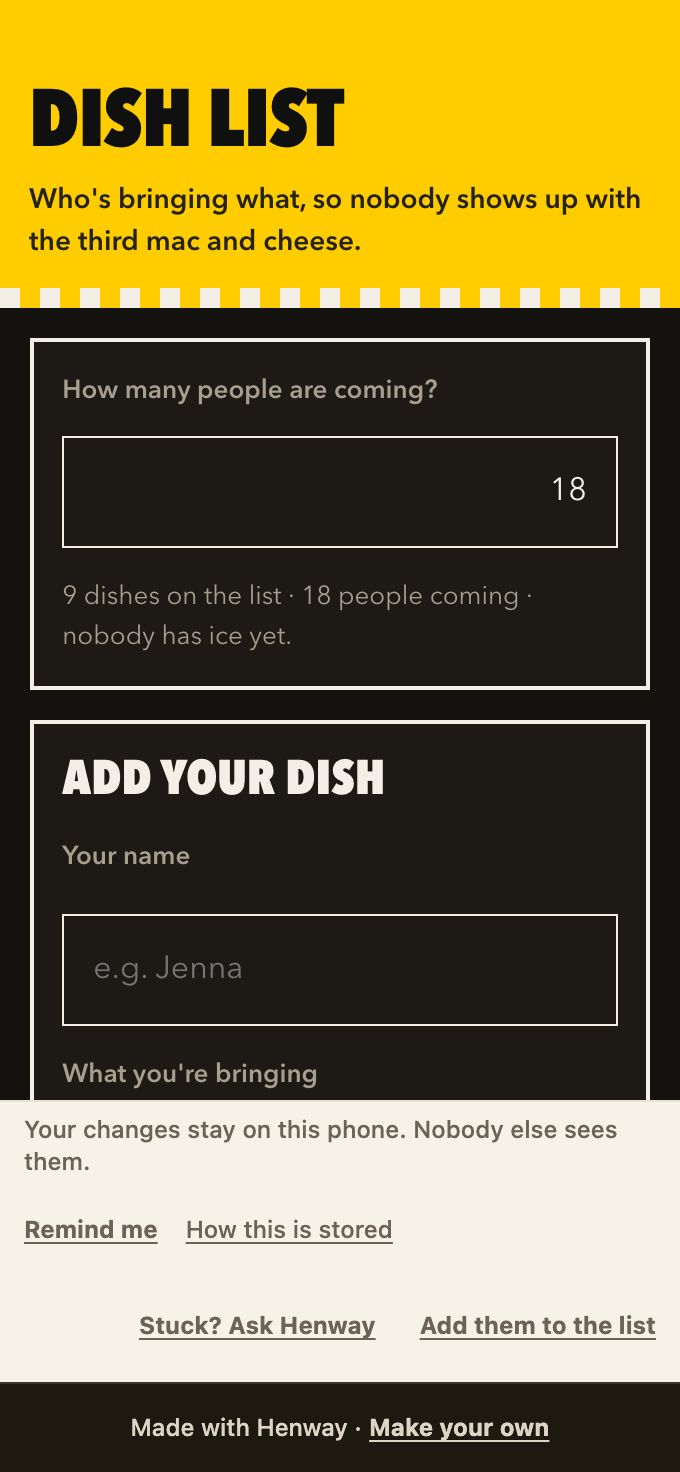
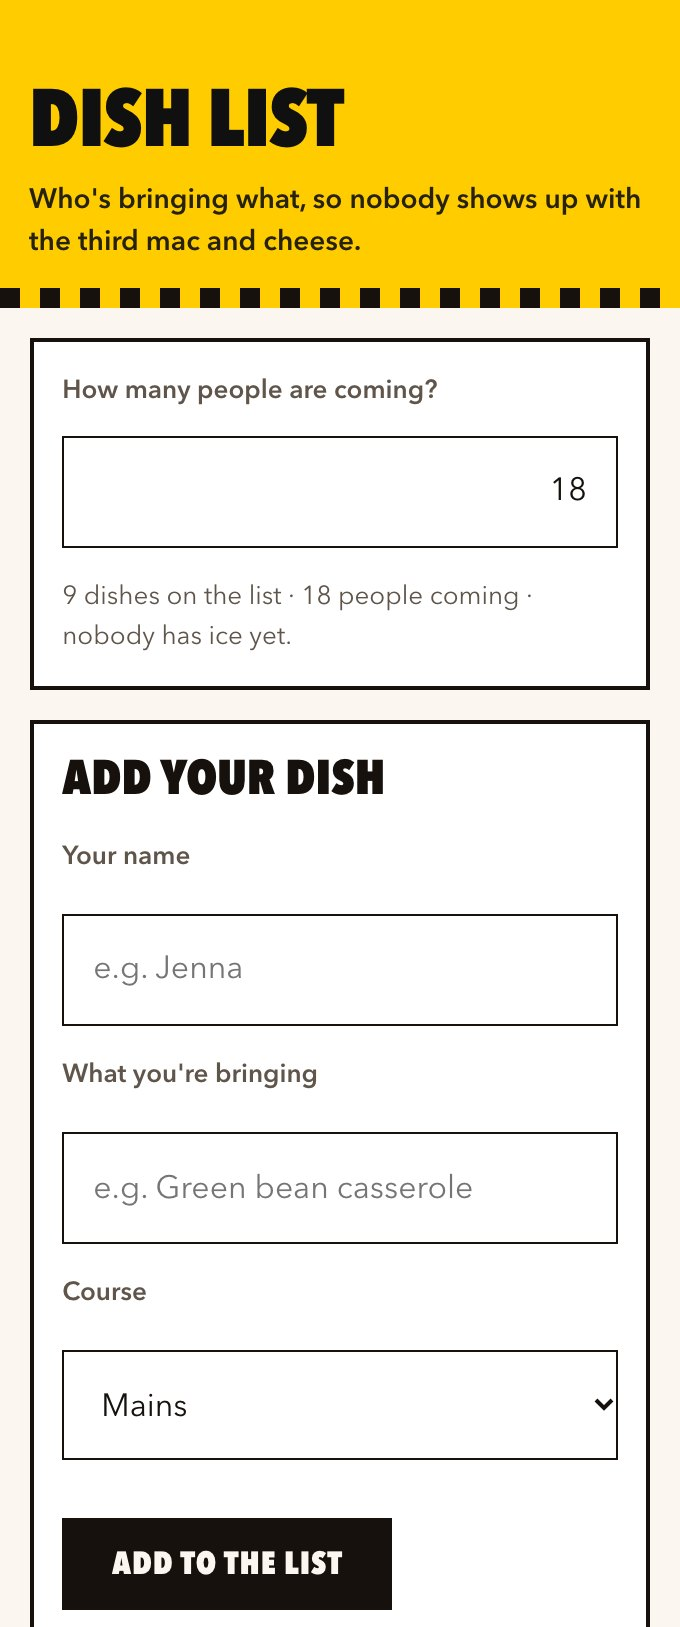
Recut phone captures above the Henway bar; copy for builds, change limits, retention
- All six starters recaptured live (340 CSS px, 2x) and cut at a clean row
  above the cream Henway bar, so no capture shows the bar or covers content.
  Dish List and Trip Plan no longer show "Nobody else sees them".
  live-*.jpg come from the same captures; image sizes now come from the files.
- How it works: "While it builds, it shows what it's making..."; eyebrow
  "While it builds" (one-tap build since 9/27).
- Change limits: Free card "10 changes by just asking"; $9 card "30 changes a
  month by just asking"; FAQ and method line state 10 and 30 a month; story
  pages "Free to try, with 10 changes by asking. $9 to keep it, once, with 30
  changes a month."
- $9 card retention: "It isn't cleared after 6 months, saved data and all".
- Retention sentence word for word with the app (ee838da).
- Rubric: henwaybar (bar in any capture), stale copy (before it builds,
  unlimited changes, nothing new saved), exact retention sentence. Each shown
  failing first.

diff --git a/site/index.html b/site/index.html
@@ -52,7 +52,7 @@ html.g-payments [data-ungate~=payments],html.g-copies [data-ungate~=copies],html
   <div class="bubble"><span class="who">You said</span>Every year three people bring mac and cheese and nobody brings ice.<span class="arrow" aria-hidden="true">&rarr;</span></div>
   <div class="pw">
    <img width="250" height="360" class="chick" src="/v6/img/chick-hatch.png" alt="">
-   <div class="phone"><img src="/v6/img/phone-potluck.jpg" width="680" height="1472" alt="Dish List, the starter app, open on a phone"></div>
+   <div class="phone"><img src="/v6/img/phone-potluck.jpg" width="680" height="1627" alt="Dish List, the starter app, open on a phone"></div>
    <div class="sent">Sent to the family chat &middot; <span>18 coming</span></div>
   </div>
  </div>
@@ -100,27 +100,27 @@ html.g-payments [data-ungate~=payments],html.g-copies [data-ungate~=copies],html
   <p class="lede" style="max-width:36ch">Each one started as somebody's complaint. Get it as is, or make it yours.</p>
  </div>
  <div class="shelf"><article class="st"><span class="tag">Fitness</span><p class="q">My clients lose the workouts I text them.</p>
- <div class="shot"><div class="phone"><picture><source media="(max-width:640px)" srcset="/v6/img/live-workout.jpg" width="680" height="840"><img src="/v6/img/phone-workout.jpg" width="680" height="1472" loading="lazy" alt="Workout Log, the starter app, open on a phone"></picture></div></div>
+ <div class="shot"><div class="phone"><picture><source media="(max-width:640px)" srcset="/v6/img/live-workout.jpg" width="680" height="856"><img src="/v6/img/phone-workout.jpg" width="680" height="1389" loading="lazy" alt="Workout Log, the starter app, open on a phone"></picture></div></div>
  <p class="gone">Snap the plan. It's logged.</p>
  <div class="acts"><a class="btn go sm" href="https://app.henwayai.com/try?from=qaVPwtlEpxfqaC48QkXvpPJk&utm_source=site&utm_medium=starter" data-cta="starter-workout">Get this app</a><a class="more2" href="/apps/workout">See how it works</a></div></article>
 <article class="st"><span class="tag">With family</span><p class="q">Three people said mac and cheese.</p>
- <div class="shot"><div class="phone"><picture><source media="(max-width:640px)" srcset="/v6/img/live-potluck.jpg" width="680" height="840"><img src="/v6/img/phone-potluck.jpg" width="680" height="1472" loading="lazy" alt="Dish List, the starter app, open on a phone"></picture></div></div>
+ <div class="shot"><div class="phone"><picture><source media="(max-width:640px)" srcset="/v6/img/live-potluck.jpg" width="680" height="720"><img src="/v6/img/phone-potluck.jpg" width="680" height="1627" loading="lazy" alt="Dish List, the starter app, open on a phone"></picture></div></div>
  <p class="gone">Everyone sees one list. It spots what's missing.</p>
  <div class="acts"><a class="btn go sm" href="https://app.henwayai.com/try?from=7FHkMiAU4ocdNeOF6rog6Wjb&utm_source=site&utm_medium=starter" data-cta="starter-potluck">Get this app</a><a class="more2" href="/apps/potluck">See how it works</a></div></article>
 <article class="st"><span class="tag">Side hustle</span><p class="q">I do the work, then lose track of who owes me.</p>
- <div class="shot"><div class="phone"><picture><source media="(max-width:640px)" srcset="/v6/img/live-deals.jpg" width="680" height="840"><img src="/v6/img/phone-deals.jpg" width="680" height="1472" loading="lazy" alt="Brand Deal Tracker, the starter app, open on a phone"></picture></div></div>
+ <div class="shot"><div class="phone"><picture><source media="(max-width:640px)" srcset="/v6/img/live-deals.jpg" width="680" height="758"><img src="/v6/img/phone-deals.jpg" width="680" height="1636" loading="lazy" alt="Brand Deal Tracker, the starter app, open on a phone"></picture></div></div>
  <p class="gone">Snap the contract. It tells you who's late.</p>
  <div class="acts"><a class="btn go sm" href="https://app.henwayai.com/try?from=Ln0XlH8zbT5Nmq8pg-W8r5_K&utm_source=site&utm_medium=starter" data-cta="starter-deals">Get this app</a><a class="more2" href="/apps/deals">See how it works</a></div></article>
 <article class="st"><span class="tag">At home</span><p class="q">I save recipes and still don't know what's for dinner.</p>
- <div class="shot"><div class="phone"><picture><source media="(max-width:640px)" srcset="/v6/img/live-recipes.jpg" width="680" height="840"><img src="/v6/img/phone-recipes.jpg" width="680" height="1472" loading="lazy" alt="Recipe Box, the starter app, open on a phone"></picture></div></div>
+ <div class="shot"><div class="phone"><picture><source media="(max-width:640px)" srcset="/v6/img/live-recipes.jpg" width="680" height="704"><img src="/v6/img/phone-recipes.jpg" width="680" height="1465" loading="lazy" alt="Recipe Box, the starter app, open on a phone"></picture></div></div>
  <p class="gone">Snap Grandma's card. It's saved.</p>
  <div class="acts"><a class="btn go sm" href="https://app.henwayai.com/try?from=b2ILS-fPhAe4GKifPwkVnHrK&utm_source=site&utm_medium=starter" data-cta="starter-recipes">Get this app</a><a class="more2" href="/apps/recipes">See how it works</a></div></article>
 <article class="st"><span class="tag">Trips</span><p class="q">Who's bringing the cooler?</p>
- <div class="shot"><div class="phone"><picture><source media="(max-width:640px)" srcset="/v6/img/live-trip.jpg" width="680" height="840"><img src="/v6/img/phone-trip.jpg" width="680" height="1472" loading="lazy" alt="Trip Plan, the starter app, open on a phone"></picture></div></div>
+ <div class="shot"><div class="phone"><picture><source media="(max-width:640px)" srcset="/v6/img/live-trip.jpg" width="680" height="748"><img src="/v6/img/phone-trip.jpg" width="680" height="1627" loading="lazy" alt="Trip Plan, the starter app, open on a phone"></picture></div></div>
  <p class="gone">Everyone claims a job. Nothing gets forgotten.</p>
  <div class="acts"><a class="btn go sm" href="https://app.henwayai.com/try?from=UPcd_kRT3qSMcxM95Jrl6mlE&utm_source=site&utm_medium=starter" data-cta="starter-trip">Get this app</a><a class="more2" href="/apps/trip">See how it works</a></div></article>
 <article class="st"><span class="tag">At work</span><p class="q">My license renewal sneaks up on me.</p>
- <div class="shot"><div class="phone"><picture><source media="(max-width:640px)" srcset="/v6/img/live-renewals.jpg" width="680" height="840"><img src="/v6/img/phone-renewals.jpg" width="680" height="1472" loading="lazy" alt="License Renewals, the starter app, open on a phone"></picture></div></div>
+ <div class="shot"><div class="phone"><picture><source media="(max-width:640px)" srcset="/v6/img/live-renewals.jpg" width="680" height="738"><img src="/v6/img/phone-renewals.jpg" width="680" height="1559" loading="lazy" alt="License Renewals, the starter app, open on a phone"></picture></div></div>
  <p class="gone">Every renewal on your calendar, 30 days early.</p>
  <div class="acts"><a class="btn go sm" href="https://app.henwayai.com/try?from=vwdwJyF0QWndhXQgVlbWgJvX&utm_source=site&utm_medium=starter" data-cta="starter-renewals">Get this app</a><a class="more2" href="/apps/renewals">See how it works</a></div></article></div>
  <p class="more">Something else bugging you? <a href="https://app.henwayai.com/try?utm_source=site&amp;utm_medium=home&amp;utm_campaign=find-own" data-cta="start">Say it your way &rarr;</a></p>

diff --git a/site/apps.html b/site/apps.html
@@ -51,27 +51,27 @@ html.g-payments [data-ungate~=payments],html.g-copies [data-ungate~=copies],html
   <button aria-pressed="false" data-f="kitchen">My kitchen</button><button aria-pressed="false" data-f="work">My work</button></div>
 </div></section>
 <div class="wrap"><div class="grid"><article class="card st-card" data-f="clients"><span class="tg">Coaches</span><h3>"My clients lose the workouts I text them."</h3>
-<div class="shot"><img loading="lazy" width="680" height="840" src="/v6/img/live-workout.jpg" alt="Workout Log, the starter app, open on a phone"></div>
+<div class="shot"><img loading="lazy" width="680" height="856" src="/v6/img/live-workout.jpg" alt="Workout Log, the starter app, open on a phone"></div>
 <div class="nm"><b>Workout Log</b><small>By Henway</small></div><p>Clients snap your plan and their sets are logged.</p><div class="chips"><i>Reads screenshots</i><i>Each client's own log</i><i>Reminders</i></div>
 <div class="row"><a class="btn go sm" href="https://app.henwayai.com/try?from=qaVPwtlEpxfqaC48QkXvpPJk&utm_source=site&utm_medium=starter">Make it mine</a><a class="open" href="https://api.henwayai.com/s/qaVPwtlEpxfqaC48QkXvpPJk">Open it</a><a class="open" href="/apps/workout">See how it works</a></div>
 <p class="pz">Free to start · $9 to keep</p></article><article class="card st-card" data-f="group"><span class="tg">Hosts</span><h3>"Three people said mac and cheese."</h3>
-<div class="shot"><img loading="lazy" width="680" height="840" src="/v6/img/live-potluck.jpg" alt="Dish List, the starter app, open on a phone"></div>
+<div class="shot"><img loading="lazy" width="680" height="720" src="/v6/img/live-potluck.jpg" alt="Dish List, the starter app, open on a phone"></div>
 <div class="nm"><b>Dish List</b><small>By Henway</small></div><p>Everyone adds a dish. You see what's still missing.</p><div class="chips"><i>One shared link</i><i>What's missing?</i></div>
 <div class="row"><a class="btn go sm" href="https://app.henwayai.com/try?from=7FHkMiAU4ocdNeOF6rog6Wjb&utm_source=site&utm_medium=starter">Make it mine</a><a class="open" href="https://api.henwayai.com/s/7FHkMiAU4ocdNeOF6rog6Wjb">Open it</a><a class="open" href="/apps/potluck">See how it works</a></div>
 <p class="pz">Free to start · $9 to keep</p></article><article class="card st-card" data-f="money"><span class="tg">Creators</span><h3>"Three brands owe me money."</h3>
-<div class="shot"><img loading="lazy" width="680" height="840" src="/v6/img/live-deals.jpg" alt="Brand Deal Tracker, the starter app, open on a phone"></div>
+<div class="shot"><img loading="lazy" width="680" height="758" src="/v6/img/live-deals.jpg" alt="Brand Deal Tracker, the starter app, open on a phone"></div>
 <div class="nm"><b>Brand Deal Tracker</b><small>By Henway</small></div><p>Snap the contract. See who owes you and what's late.</p><div class="chips"><i>Reads contracts</i><i>Overdue at the top</i></div>
 <div class="row"><a class="btn go sm" href="https://app.henwayai.com/try?from=Ln0XlH8zbT5Nmq8pg-W8r5_K&utm_source=site&utm_medium=starter">Make it mine</a><a class="open" href="https://api.henwayai.com/s/Ln0XlH8zbT5Nmq8pg-W8r5_K">Open it</a><a class="open" href="/apps/deals">See how it works</a></div>
 <p class="pz">Free to start · $9 to keep</p></article><article class="card st-card" data-f="group"><span class="tg">Trips</span><h3>"Who's bringing the cooler?"</h3>
-<div class="shot"><img loading="lazy" width="680" height="840" src="/v6/img/live-trip.jpg" alt="Trip Plan, the starter app, open on a phone"></div>
+<div class="shot"><img loading="lazy" width="680" height="748" src="/v6/img/live-trip.jpg" alt="Trip Plan, the starter app, open on a phone"></div>
 <div class="nm"><b>Trip Plan</b><small>By Henway</small></div><p>Days, plans and who's bringing what, at one link.</p><div class="chips"><i>One shared link</i><i>What are we forgetting?</i></div>
 <div class="row"><a class="btn go sm" href="https://app.henwayai.com/try?from=UPcd_kRT3qSMcxM95Jrl6mlE&utm_source=site&utm_medium=starter">Make it mine</a><a class="open" href="https://api.henwayai.com/s/UPcd_kRT3qSMcxM95Jrl6mlE">Open it</a><a class="open" href="/apps/trip">See how it works</a></div>
 <p class="pz">Free to start · $9 to keep</p></article><article class="card st-card" data-f="kitchen"><span class="tg">Cooks</span><h3>"I save recipes and still don't know what's for dinner."</h3>
-<div class="shot"><img loading="lazy" width="680" height="840" src="/v6/img/live-recipes.jpg" alt="Recipe Box, the starter app, open on a phone"></div>
+<div class="shot"><img loading="lazy" width="680" height="704" src="/v6/img/live-recipes.jpg" alt="Recipe Box, the starter app, open on a phone"></div>
 <div class="nm"><b>Recipe Box</b><small>By Henway</small></div><p>Snap a recipe card. Ask what you can make tonight.</p><div class="chips"><i>Reads photos</i><i>Pantry</i></div>
 <div class="row"><a class="btn go sm" href="https://app.henwayai.com/try?from=b2ILS-fPhAe4GKifPwkVnHrK&utm_source=site&utm_medium=starter">Make it mine</a><a class="open" href="https://api.henwayai.com/s/b2ILS-fPhAe4GKifPwkVnHrK">Open it</a><a class="open" href="/apps/recipes">See how it works</a></div>
 <p class="pz">Free to start · $9 to keep</p></article><article class="card st-card" data-f="work"><span class="tg">Nurses and pros</span><h3>"My license renewal snuck up on me."</h3>
-<div class="shot"><img loading="lazy" width="680" height="840" src="/v6/img/live-renewals.jpg" alt="License Renewals, the starter app, open on a phone"></div>
+<div class="shot"><img loading="lazy" width="680" height="738" src="/v6/img/live-renewals.jpg" alt="License Renewals, the starter app, open on a phone"></div>
 <div class="nm"><b>License Renewals</b><small>By Henway</small></div><p>Every license and CE hour, with due dates on your calendar.</p><div class="chips"><i>Calendar dates</i><i>What's missing?</i></div>
 <div class="row"><a class="btn go sm" href="https://app.henwayai.com/try?from=vwdwJyF0QWndhXQgVlbWgJvX&utm_source=site&utm_medium=starter">Make it mine</a><a class="open" href="https://api.henwayai.com/s/vwdwJyF0QWndhXQgVlbWgJvX">Open it</a><a class="open" href="/apps/renewals">See how it works</a></div>
 <p class="pz">Free to start · $9 to keep</p></article></div></div>

diff --git a/site/pricing.html b/site/pricing.html
@@ -52,11 +52,11 @@ html.g-payments [data-ungate~=payments],html.g-copies [data-ungate~=copies],html
 <div class="wrap"><div class="tiers">
  <div class="tier"><div class="tt"><b>Free</b></div>
   <div class="amt"><span>$0</span></div><p class="for">Your first app, start to finish.</p>
-  <ul><li><span>An app at its own link</span></li><li><span>Change it by saying so</span></li><li data-gate="keepv2"><span>Shared lists with up to 5 people</span></li><li><span><span data-live="ai-free">20</span> AI answers a day</span></li><li data-gate="payments"><span>Take payments in your app</span></li><li class="x"><span>6 months with nothing new saved clears its saved data. The app itself stays.</span></li></ul>
+  <ul><li><span>An app at its own link</span></li><li><span>10 changes by just asking</span></li><li data-gate="keepv2"><span>Shared lists with up to 5 people</span></li><li><span><span data-live="ai-free">20</span> AI answers a day</span></li><li data-gate="payments"><span>Take payments in your app</span></li><li class="x"><span>6 months with nobody opening it or saving anything clears its saved data. The app itself stays.</span></li></ul>
   <a class="btn" href="https://app.henwayai.com/try" data-cta="start">Start free</a></div>
  <div class="tier hot"><div class="tt"><b>Keep it</b><span class="badge">Pay once</span></div>
   <div class="amt"><span data-live="keep">$9</span><small>once, per app</small></div><p class="for">For the app you'll use for years.</p>
-  <ul><li data-gate="keepv2"><span>Your own app name and icon</span></li><li data-gate="keepv2"><span>Shared lists with no cap on people</span></li><li data-ungate="keepv2"><span>Share it with your people</span></li><li><span><span data-live="ai-paid">200</span> AI answers a day, not <span data-live="ai-free">20</span></span></li><li><span>Kept as it is, even if it sits unused</span></li><li><span>Help from Henway with that app</span></li><li><span>No subscription</span></li></ul>
+  <ul><li data-gate="keepv2"><span>Your own app name and icon</span></li><li data-gate="keepv2"><span>Shared lists with no cap on people</span></li><li data-ungate="keepv2"><span>Share it with your people</span></li><li><span><span data-live="ai-paid">200</span> AI answers a day, not <span data-live="ai-free">20</span></span></li><li><span>30 changes a month by just asking</span></li><li><span>It isn't cleared after 6 months, saved data and all</span></li><li><span>No subscription</span></li></ul>
   <a class="btn go" href="https://app.henwayai.com/try" data-cta="start">Keep an app</a></div>
  <div class="tier"><div class="tt"><b>Build it with Michael</b></div>
   <div class="amt"><span data-live="studio">$150</span><small>60 minutes</small></div><p class="for">Bring the idea. Leave with the app.</p>
@@ -91,8 +91,8 @@ html.g-payments [data-ungate~=payments],html.g-copies [data-ungate~=copies],html
 <section style="padding-top:0"><div class="wrap">
  <span class="kick">Questions</span>
  <div class="faq">
-  <details><summary>Can I change my free app?</summary><p>Yes. Say what you want different and the app updates. Free apps change too.</p></details>
-  <details><summary>What happens after 6 months?</summary><p>If an app goes 6 months with nothing new saved, its saved data is cleared. The app itself stays. Apps you keep for $9, and apps on a paid plan, are kept as they are.</p></details><details id="refunds"><summary>Can I get a refund?</summary><ul class="refunds"><li><b>Keep an app, $9:</b> if your app doesn't do what you asked and we can't fix it, email <a href="mailto:support@henwayai.com?subject=Refund">support@henwayai.com</a> and we refund the $9. A refunded app goes back to the free limits.</li><li><b>Build it with Michael, $150:</b> full refund if you cancel at least 24 hours before. Inside 24 hours, you can move it once.</li><li data-gate="payments"><b>Payments and copies sold through your app:</b> you set your own refund policy. When you refund one, Henway's fee on it goes back too.</li></ul></details>
+  <details><summary>Can I change my free app?</summary><p>Yes. Say what you want different and the app updates. A free app gets 10 changes in all. Keep it for $9 and it gets 30 changes a month.</p></details>
+  <details><summary>What happens after 6 months?</summary><p>If an app goes 6 months with nobody opening it or saving anything, its saved data is cleared. The app itself stays. Apps you keep for $9, and apps on a paid plan, are kept as they are.</p></details><details id="refunds"><summary>Can I get a refund?</summary><ul class="refunds"><li><b>Keep an app, $9:</b> if your app doesn't do what you asked and we can't fix it, email <a href="mailto:support@henwayai.com?subject=Refund">support@henwayai.com</a> and we refund the $9. A refunded app goes back to the free limits.</li><li><b>Build it with Michael, $150:</b> full refund if you cancel at least 24 hours before. Inside 24 hours, you can move it once.</li><li data-gate="payments"><b>Payments and copies sold through your app:</b> you set your own refund policy. When you refund one, Henway's fee on it goes back too.</li></ul></details>
   <details><summary>What's an AI answer?</summary><p>Some apps have a button that reads a photo or suggests something. Each tap is one answer. Free apps get <span data-live="ai-free">20</span> a day. Kept apps get <span data-live="ai-paid">200</span>.</p></details>
   <details><summary>Is $9 a subscription?</summary><p>No. You pay once for each app you keep.</p></details>
  </div>

diff --git a/site/support.html b/site/support.html
@@ -48,7 +48,7 @@ html.g-payments [data-ungate~=payments],html.g-copies [data-ungate~=copies],html
 </div></section>
 <section><div class="wrap" style="max-width:860px">
  <span class="kick">Common questions</span>
- <div class="faq"><details><summary>Where are my apps?</summary><p>Sign in at <a href="https://app.henwayai.com/login">app.henwayai.com/login</a> with the email you used. Your apps are under Apps. Built one without an account? It lives at its own link. If you gave us your email, that link is in the email we sent when it was ready.</p></details><details><summary>How do I log in?</summary><p>Use Google, or type your email and tap the button to get a sign-in link. No password needed. If the link doesn't arrive, check spam, then email us.</p></details><details><summary>How do I change my app?</summary><p>Open it and tap Change this app. Say what you want different. You see a preview first, and Undo puts it back.</p></details><details><summary>What does $9 get me?</summary><p>That app is kept as it is, even if it sits unused, with <span data-live="ai-paid">200</span> AI answers a day instead of <span data-live="ai-free">20</span>, and help from Henway with it. You pay once. There's no subscription.</p></details><details><summary>Why did an AI button stop working?</summary><p>Each app gets a set number of AI answers a day, shared by everyone who uses it. A photo counts as 2. It resets the next day, or keep the app for $9 to get more.</p></details><details><summary>What happens after 6 months?</summary><p>If an app goes 6 months with nothing new saved, its saved data is cleared. The app itself stays. Apps you keep for $9, and apps on a paid plan, are kept as they are.</p></details><details><summary>How do I delete my data?</summary><p>Delete an app from your Apps list and its data goes with it. To erase everything, use <a href="https://app.henwayai.com/privacy/delete">Delete my data</a> or email us.</p></details></div>
+ <div class="faq"><details><summary>Where are my apps?</summary><p>Sign in at <a href="https://app.henwayai.com/login">app.henwayai.com/login</a> with the email you used. Your apps are under Apps. Built one without an account? It lives at its own link. If you gave us your email, that link is in the email we sent when it was ready.</p></details><details><summary>How do I log in?</summary><p>Use Google, or type your email and tap the button to get a sign-in link. No password needed. If the link doesn't arrive, check spam, then email us.</p></details><details><summary>How do I change my app?</summary><p>Open it and tap Change this app. Say what you want different. You see a preview first, and Undo puts it back.</p></details><details><summary>What does $9 get me?</summary><p>That app is kept as it is, even if it sits unused, with <span data-live="ai-paid">200</span> AI answers a day instead of <span data-live="ai-free">20</span>, and help from Henway with it. You pay once. There's no subscription.</p></details><details><summary>Why did an AI button stop working?</summary><p>Each app gets a set number of AI answers a day, shared by everyone who uses it. A photo counts as 2. It resets the next day, or keep the app for $9 to get more.</p></details><details><summary>What happens after 6 months?</summary><p>If an app goes 6 months with nobody opening it or saving anything, its saved data is cleared. The app itself stays. Apps you keep for $9, and apps on a paid plan, are kept as they are.</p></details><details><summary>How do I delete my data?</summary><p>Delete an app from your Apps list and its data goes with it. To erase everything, use <a href="https://app.henwayai.com/privacy/delete">Delete my data</a> or email us.</p></details></div>
 </div></section>
 <section id="refunds"><div class="wrap" style="max-width:860px">
  <span class="kick">Refunds</span>

diff --git a/site/method.html b/site/method.html
@@ -57,8 +57,8 @@ html.g-payments [data-ungate~=payments],html.g-copies [data-ungate~=copies],html
 </div></section>
 <section class="step"><div class="wrap">
  <div class="txt"><div class="num">2</div><h2 class="hh h2">It builds. <span class="hl">It tells you the limits.</span></h2>
-  <p class="lede">Before it builds, it says what it will make, what your phone already does, and what this app won't do.</p></div>
- <div class="vis" style="max-width:460px;justify-self:center;width:100%"><div class="card2"><h4>Before it builds</h4><div class="split">
+  <p class="lede">While it builds, it shows what it's making, what your phone already does, and what this app won't do.</p></div>
+ <div class="vis" style="max-width:460px;justify-self:center;width:100%"><div class="card2"><h4>While it builds</h4><div class="split">
   <div class="y"><b>Building</b>Weekly plan, set logging, reminders, reading screenshots</div>
   <div class="p"><b>Your phone does this</b>Calendar alerts, sharing the link</div>
   <div class="n"><b>Not in this app</b>Live video sessions</div></div></div></div>
@@ -83,7 +83,7 @@ html.g-payments [data-ungate~=payments],html.g-copies [data-ungate~=copies],html
  <span class="kick">What every app gets</span><h2 class="hh h2" style="margin-bottom:24px">The <span class="hl">spec sheet.</span></h2>
  <div class="spec">
   <div><b>Its own link</b><span>Opens on a phone or a laptop. Nothing to install.</span></div>
-  <div><b>Changes by talking</b><span>Say it, and the app updates. Free apps change too.</span></div>
+  <div><b>Changes by talking</b><span>Say it, and the app updates. A free app gets 10 changes. A kept app gets 30 a month.</span></div>
   <div><b>Undo</b><span>Every version saved. Go back in one tap.</span></div>
   <div><b>Reads what you snap</b><span>Photos, screenshots and PDFs become entries. It asks before AI sees anything.</span></div>
   <div><b>Shared lists</b><span>Your group adds to the same list from one link.</span></div>

diff --git a/site/apps/renewals.html b/site/apps/renewals.html
@@ -52,7 +52,7 @@ html.g-payments [data-ungate~=payments],html.g-copies [data-ungate~=copies],html
   <p class="for"><b>For</b> <span>Nurses</span><span>Therapists</span><span>Realtors</span></p>
   <a class="jump" href="#week">See a week with it &darr;</a>
  </div>
- <div class="stage" style="justify-content:center;padding-top:40px"><div class="pw"><img width="250" height="360" class="chick" src="/v6/img/chick-hatch.png" alt=""><div class="phone"><img src="/v6/img/phone-renewals.jpg" width="680" height="1472" alt="License Renewals, the starter app, open on a phone"></div></div></div>
+ <div class="stage" style="justify-content:center;padding-top:40px"><div class="pw"><img width="250" height="360" class="chick" src="/v6/img/chick-hatch.png" alt=""><div class="phone"><img src="/v6/img/phone-renewals.jpg" width="680" height="1559" alt="License Renewals, the starter app, open on a phone"></div></div></div>
 </div></section>
 
 <section id="week" style="padding-top:0"><div class="wrap">
@@ -64,7 +64,7 @@ html.g-payments [data-ungate~=payments],html.g-copies [data-ungate~=copies],html
  <img width="250" height="360" class="chk" src="/v6/img/chick-hatch.png" alt="" loading="lazy">
  <h2 class="hh h2">Your licenses, on your calendar.</h2>
  <div class="cta" style="justify-content:center"><a class="btn go" href="https://app.henwayai.com/try?from=vwdwJyF0QWndhXQgVlbWgJvX&utm_source=site&utm_medium=starter" data-cta="starter-renewals-close">Get this app</a></div>
- <p class="free">Free to try. <span data-live="keep">$9</span> to keep it, once. Change anything by asking.</p>
+ <p class="free">Free to try, with 10 changes by asking. <span data-live="keep">$9</span> to keep it, once, with 30 changes a month.</p>
 </div></section>
 </div><footer class="foot"><div class="wrap">
 <div><img src="/v6/img/logo-black.png" alt="Henway" width="112" height="28"><p>If you can complain to a friend, you can make an app.</p></div>

diff --git a/site/apps/recipes.html b/site/apps/recipes.html
@@ -52,7 +52,7 @@ html.g-payments [data-ungate~=payments],html.g-copies [data-ungate~=copies],html
   <p class="for"><b>For</b> <span>Home cooks</span><span>Busy parents</span><span>Family recipe keepers</span></p>
   <a class="jump" href="#week">See a week with it &darr;</a>
  </div>
- <div class="stage" style="justify-content:center;padding-top:40px"><div class="pw"><img width="250" height="360" class="chick" src="/v6/img/chick-hatch.png" alt=""><div class="phone"><img src="/v6/img/phone-recipes.jpg" width="680" height="1472" alt="Recipe Box, the starter app, open on a phone"></div></div></div>
+ <div class="stage" style="justify-content:center;padding-top:40px"><div class="pw"><img width="250" height="360" class="chick" src="/v6/img/chick-hatch.png" alt=""><div class="phone"><img src="/v6/img/phone-recipes.jpg" width="680" height="1465" alt="Recipe Box, the starter app, open on a phone"></div></div></div>
 </div></section>
 
 <section id="week" style="padding-top:0"><div class="wrap">
@@ -64,7 +64,7 @@ html.g-payments [data-ungate~=payments],html.g-copies [data-ungate~=copies],html
  <img width="250" height="360" class="chk" src="/v6/img/chick-hatch.png" alt="" loading="lazy">
  <h2 class="hh h2">Your kitchen's version.</h2>
  <div class="cta" style="justify-content:center"><a class="btn go" href="https://app.henwayai.com/try?from=b2ILS-fPhAe4GKifPwkVnHrK&utm_source=site&utm_medium=starter" data-cta="starter-recipes-close">Get this app</a></div>
- <p class="free">Free to try. <span data-live="keep">$9</span> to keep it, once. Change anything by asking.</p>
+ <p class="free">Free to try, with 10 changes by asking. <span data-live="keep">$9</span> to keep it, once, with 30 changes a month.</p>
 </div></section>
 </div><footer class="foot"><div class="wrap">
 <div><img src="/v6/img/logo-black.png" alt="Henway" width="112" height="28"><p>If you can complain to a friend, you can make an app.</p></div>

diff --git a/site/apps/potluck.html b/site/apps/potluck.html
@@ -52,7 +52,7 @@ html.g-payments [data-ungate~=payments],html.g-copies [data-ungate~=copies],html
   <p class="for"><b>For</b> <span>Holiday hosts</span><span>Family dinners</span><span>Office potlucks</span></p>
   <a class="jump" href="#week">See a week with it &darr;</a>
  </div>
- <div class="stage" style="justify-content:center;padding-top:40px"><div class="pw"><img width="250" height="360" class="chick" src="/v6/img/chick-hatch.png" alt=""><div class="phone"><img src="/v6/img/phone-potluck.jpg" width="680" height="1472" alt="Dish List, the starter app, open on a phone"></div></div></div>
+ <div class="stage" style="justify-content:center;padding-top:40px"><div class="pw"><img width="250" height="360" class="chick" src="/v6/img/chick-hatch.png" alt=""><div class="phone"><img src="/v6/img/phone-potluck.jpg" width="680" height="1627" alt="Dish List, the starter app, open on a phone"></div></div></div>
 </div></section>
 
 <section id="week" style="padding-top:0"><div class="wrap">
@@ -64,7 +64,7 @@ html.g-payments [data-ungate~=payments],html.g-copies [data-ungate~=copies],html
  <img width="250" height="360" class="chk" src="/v6/img/chick-hatch.png" alt="" loading="lazy">
  <h2 class="hh h2">Your family's version.</h2>
  <div class="cta" style="justify-content:center"><a class="btn go" href="https://app.henwayai.com/try?from=7FHkMiAU4ocdNeOF6rog6Wjb&utm_source=site&utm_medium=starter" data-cta="starter-potluck-close">Get this app</a></div>
- <p class="free">Free to try. <span data-live="keep">$9</span> to keep it, once. Change anything by asking.</p>
+ <p class="free">Free to try, with 10 changes by asking. <span data-live="keep">$9</span> to keep it, once, with 30 changes a month.</p>
 </div></section>
 </div><footer class="foot"><div class="wrap">
 <div><img src="/v6/img/logo-black.png" alt="Henway" width="112" height="28"><p>If you can complain to a friend, you can make an app.</p></div>

diff --git a/site/apps/workout.html b/site/apps/workout.html
@@ -52,7 +52,7 @@ html.g-payments [data-ungate~=payments],html.g-copies [data-ungate~=copies],html
   <p class="for"><b>For</b> <span>Personal trainers</span><span>Run clubs</span><span>Gym regulars</span></p>
   <a class="jump" href="#week">See a week with it &darr;</a>
  </div>
- <div class="stage" style="justify-content:center;padding-top:40px"><div class="pw"><img width="250" height="360" class="chick" src="/v6/img/chick-hatch.png" alt=""><div class="phone"><img src="/v6/img/phone-workout.jpg" width="680" height="1472" alt="Workout Log, the starter app, open on a phone"></div></div></div>
+ <div class="stage" style="justify-content:center;padding-top:40px"><div class="pw"><img width="250" height="360" class="chick" src="/v6/img/chick-hatch.png" alt=""><div class="phone"><img src="/v6/img/phone-workout.jpg" width="680" height="1389" alt="Workout Log, the starter app, open on a phone"></div></div></div>
 </div></section>
 
 <section id="week" style="padding-top:0"><div class="wrap">
@@ -64,7 +64,7 @@ html.g-payments [data-ungate~=payments],html.g-copies [data-ungate~=copies],html
  <img width="250" height="360" class="chk" src="/v6/img/chick-hatch.png" alt="" loading="lazy">
  <h2 class="hh h2">Your clients' version.</h2>
  <div class="cta" style="justify-content:center"><a class="btn go" href="https://app.henwayai.com/try?from=qaVPwtlEpxfqaC48QkXvpPJk&utm_source=site&utm_medium=starter" data-cta="starter-workout-close">Get this app</a></div>
- <p class="free">Free to try. <span data-live="keep">$9</span> to keep it, once. Change anything by asking.</p>
+ <p class="free">Free to try, with 10 changes by asking. <span data-live="keep">$9</span> to keep it, once, with 30 changes a month.</p>
 </div></section>
 </div><footer class="foot"><div class="wrap">
 <div><img src="/v6/img/logo-black.png" alt="Henway" width="112" height="28"><p>If you can complain to a friend, you can make an app.</p></div>

diff --git a/site/apps/deals.html b/site/apps/deals.html
@@ -52,7 +52,7 @@ html.g-payments [data-ungate~=payments],html.g-copies [data-ungate~=copies],html
   <p class="for"><b>For</b> <span>Creators</span><span>Influencers</span><span>Freelancers</span></p>
   <a class="jump" href="#week">See a week with it &darr;</a>
  </div>
- <div class="stage" style="justify-content:center;padding-top:40px"><div class="pw"><img width="250" height="360" class="chick" src="/v6/img/chick-hatch.png" alt=""><div class="phone"><img src="/v6/img/phone-deals.jpg" width="680" height="1472" alt="Brand Deal Tracker, the starter app, open on a phone"></div></div></div>
+ <div class="stage" style="justify-content:center;padding-top:40px"><div class="pw"><img width="250" height="360" class="chick" src="/v6/img/chick-hatch.png" alt=""><div class="phone"><img src="/v6/img/phone-deals.jpg" width="680" height="1636" alt="Brand Deal Tracker, the starter app, open on a phone"></div></div></div>
 </div></section>
 
 <section id="week" style="padding-top:0"><div class="wrap">
@@ -64,7 +64,7 @@ html.g-payments [data-ungate~=payments],html.g-copies [data-ungate~=copies],html
  <img width="250" height="360" class="chk" src="/v6/img/chick-hatch.png" alt="" loading="lazy">
  <h2 class="hh h2">Your deals, sorted.</h2>
  <div class="cta" style="justify-content:center"><a class="btn go" href="https://app.henwayai.com/try?from=Ln0XlH8zbT5Nmq8pg-W8r5_K&utm_source=site&utm_medium=starter" data-cta="starter-deals-close">Get this app</a></div>
- <p class="free">Free to try. <span data-live="keep">$9</span> to keep it, once. Change anything by asking.</p>
+ <p class="free">Free to try, with 10 changes by asking. <span data-live="keep">$9</span> to keep it, once, with 30 changes a month.</p>
 </div></section>
 </div><footer class="foot"><div class="wrap">
 <div><img src="/v6/img/logo-black.png" alt="Henway" width="112" height="28"><p>If you can complain to a friend, you can make an app.</p></div>

diff --git a/site/apps/trip.html b/site/apps/trip.html
@@ -52,7 +52,7 @@ html.g-payments [data-ungate~=payments],html.g-copies [data-ungate~=copies],html
   <p class="for"><b>For</b> <span>Group trips</span><span>Bachelorette weekends</span><span>Family reunions</span></p>
   <a class="jump" href="#week">See a week with it &darr;</a>
  </div>
- <div class="stage" style="justify-content:center;padding-top:40px"><div class="pw"><img width="250" height="360" class="chick" src="/v6/img/chick-hatch.png" alt=""><div class="phone"><img src="/v6/img/phone-trip.jpg" width="680" height="1472" alt="Trip Plan, the starter app, open on a phone"></div></div></div>
+ <div class="stage" style="justify-content:center;padding-top:40px"><div class="pw"><img width="250" height="360" class="chick" src="/v6/img/chick-hatch.png" alt=""><div class="phone"><img src="/v6/img/phone-trip.jpg" width="680" height="1627" alt="Trip Plan, the starter app, open on a phone"></div></div></div>
 </div></section>
 
 <section id="week" style="padding-top:0"><div class="wrap">
@@ -64,7 +64,7 @@ html.g-payments [data-ungate~=payments],html.g-copies [data-ungate~=copies],html
  <img width="250" height="360" class="chk" src="/v6/img/chick-hatch.png" alt="" loading="lazy">
  <h2 class="hh h2">Your crew's version.</h2>
  <div class="cta" style="justify-content:center"><a class="btn go" href="https://app.henwayai.com/try?from=UPcd_kRT3qSMcxM95Jrl6mlE&utm_source=site&utm_medium=starter" data-cta="starter-trip-close">Get this app</a></div>
- <p class="free">Free to try. <span data-live="keep">$9</span> to keep it, once. Change anything by asking.</p>
+ <p class="free">Free to try, with 10 changes by asking. <span data-live="keep">$9</span> to keep it, once, with 30 changes a month.</p>
 </div></section>
 </div><footer class="foot"><div class="wrap">
 <div><img src="/v6/img/logo-black.png" alt="Henway" width="112" height="28"><p>If you can complain to a friend, you can make an app.</p></div>

diff --git a/site/trust.html b/site/trust.html
@@ -59,7 +59,7 @@ html.g-payments [data-ungate~=payments],html.g-copies [data-ungate~=copies],html
  <div class="fact"><span class="k">Shared lists</span><b>Stored so your group sees one list.</b><p>Turn on a shared list and it lives on Henway's server. Each person agrees before they add to it. Everything else stays on your device.</p></div>
  <div class="fact"><span class="k">Reminders</span><b>Only to people who say yes.</b><p>A reminder goes only to someone who confirms it from their own inbox. We keep that email until they stop it, in one tap.</p></div>
  <div class="fact" data-gate="payments"><span class="k">Payments</span><b>Handled by Stripe.</b><p>Card details go straight to Stripe. Henway sees the amount and what it was for, not the card or who paid.</p></div>
- <div class="fact"><span class="k">Your data</span><b>Yours to delete.</b><p>Delete an app and its data goes with it. If an app goes 6 months with nothing new saved, its saved data is cleared. The app itself stays. Apps you keep for $9, and apps on a paid plan, are kept as they are. Ask us to erase everything and we do.</p></div>
+ <div class="fact"><span class="k">Your data</span><b>Yours to delete.</b><p>Delete an app and its data goes with it. If an app goes 6 months with nobody opening it or saving anything, its saved data is cleared. The app itself stays. Apps you keep for $9, and apps on a paid plan, are kept as they are. Ask us to erase everything and we do.</p></div>
 </div></div></section>
 <section class="ch egg"><div class="wrap">
  <div class="txt"><span class="kick">Running it for clients?</span><h2 class="hh h2">You stay the one <span class="hl">they trust.</span></h2>
